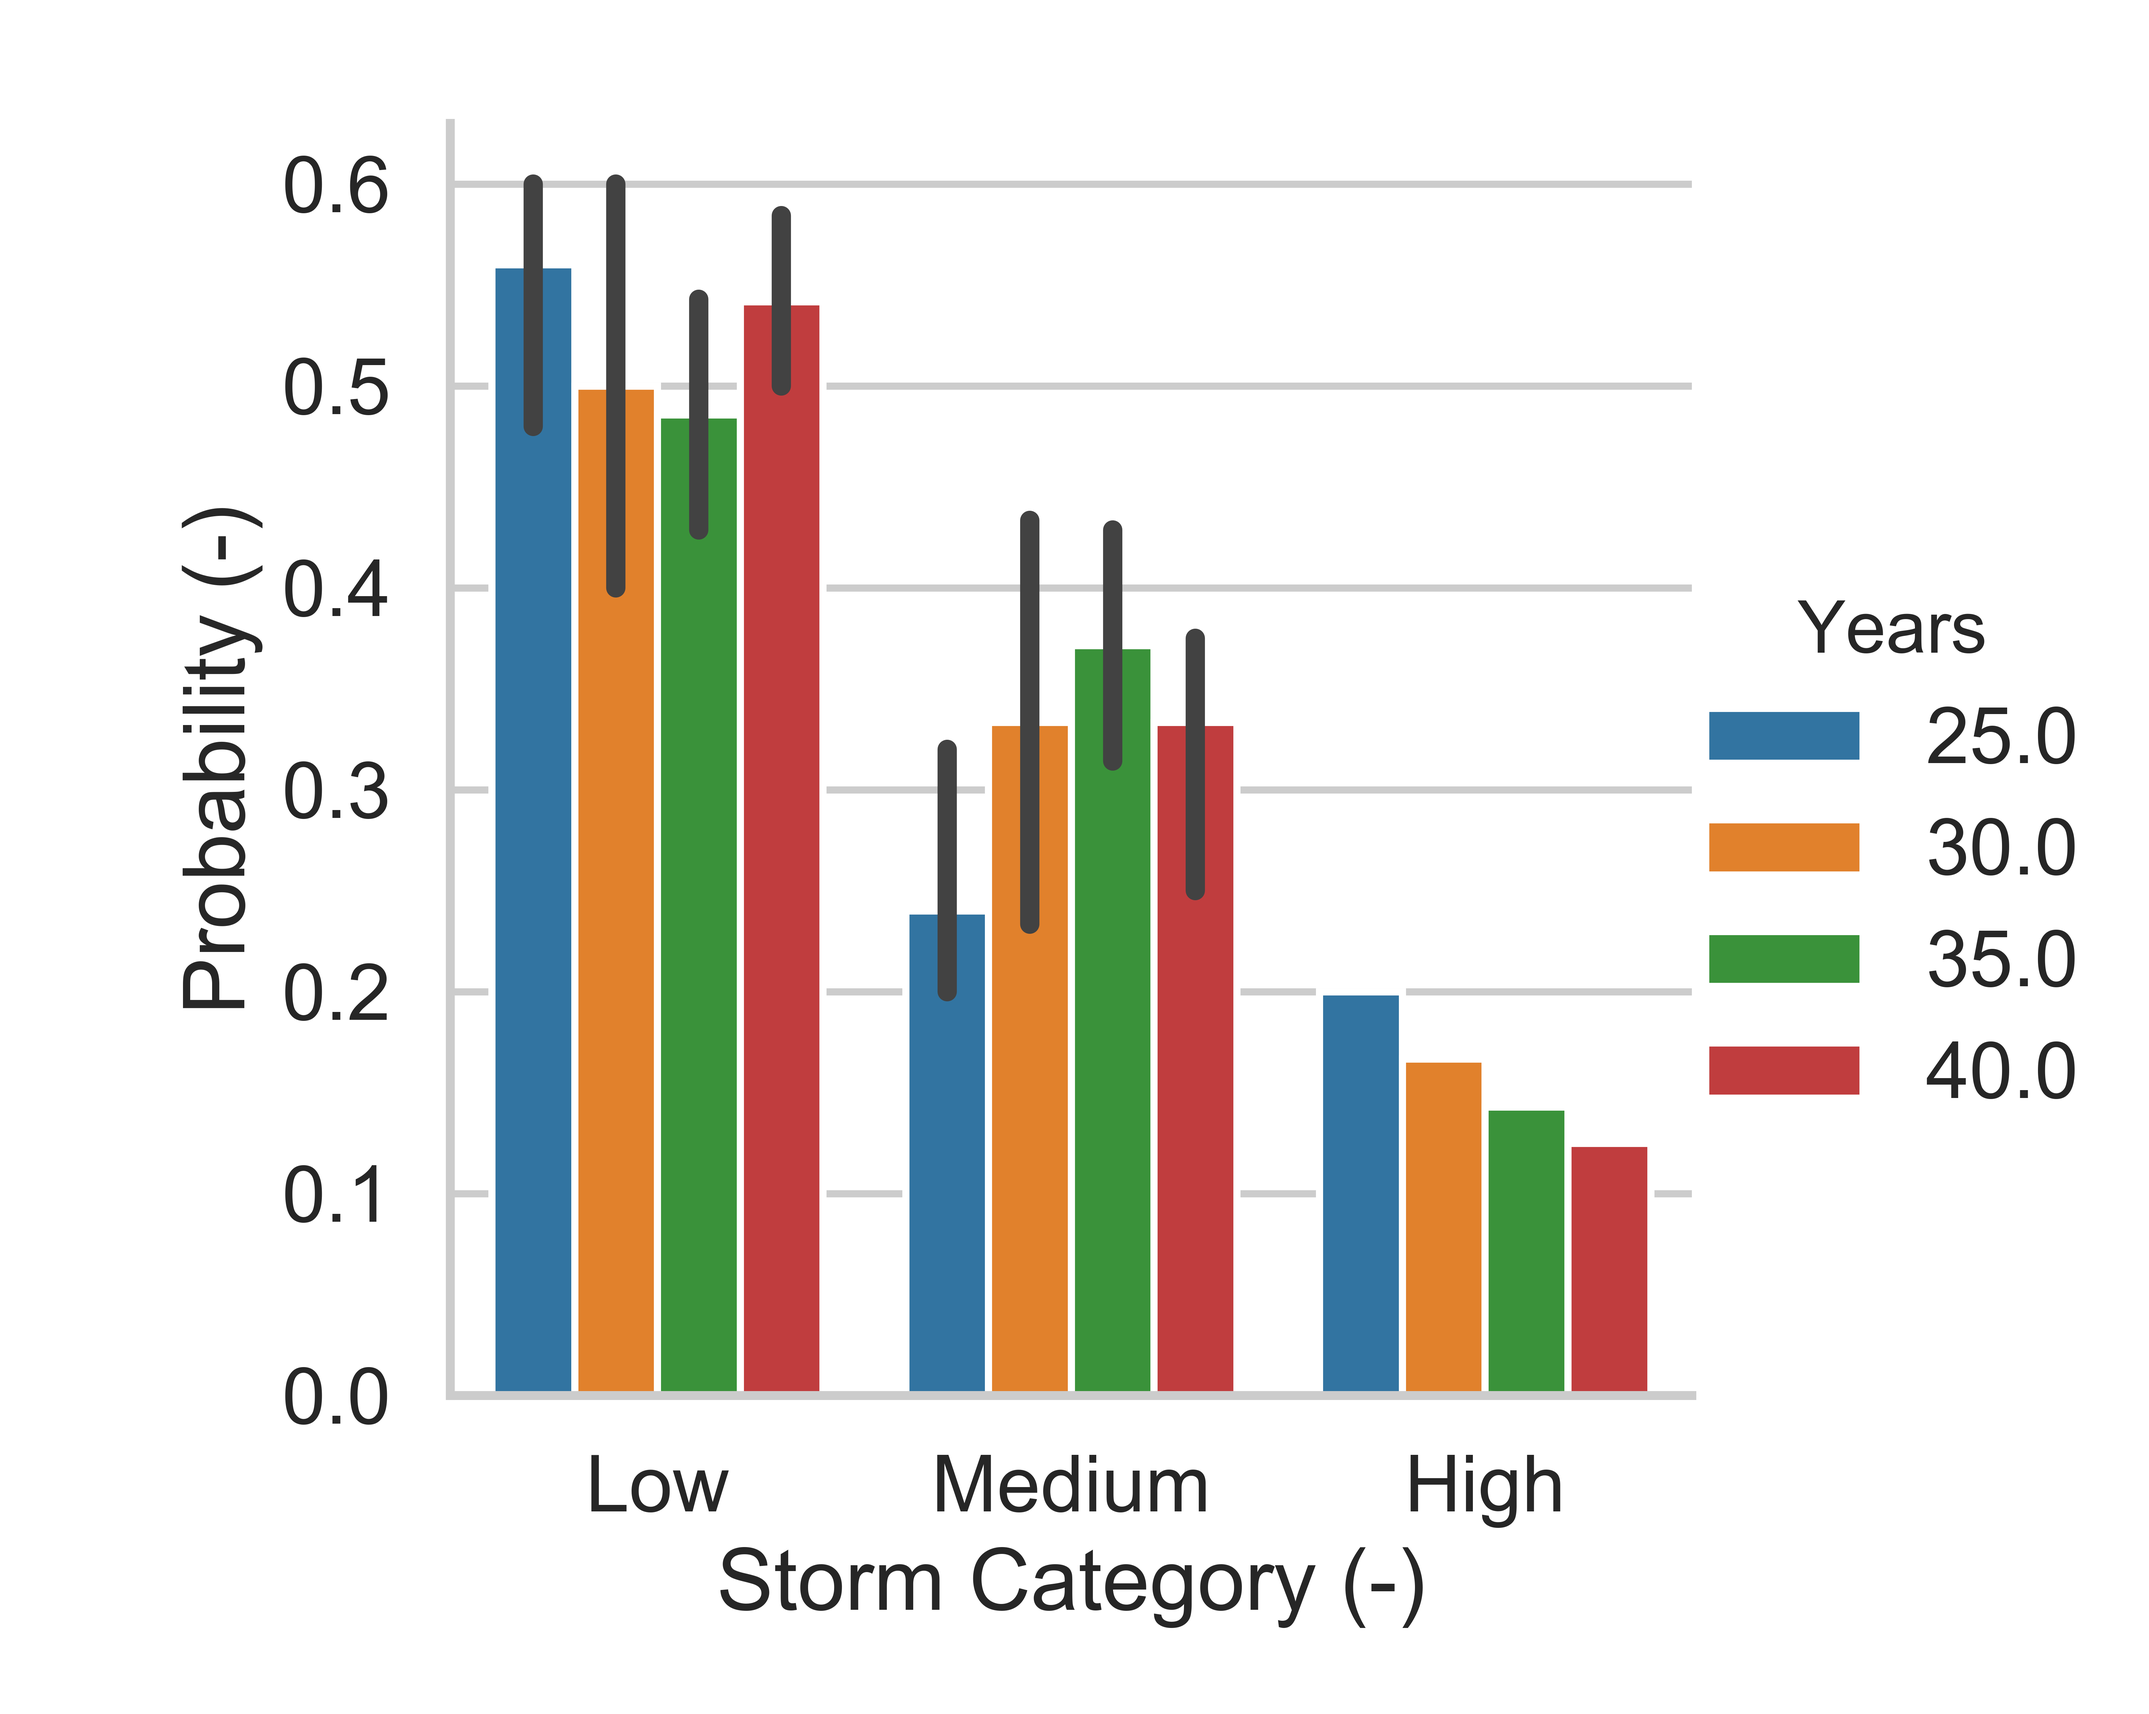
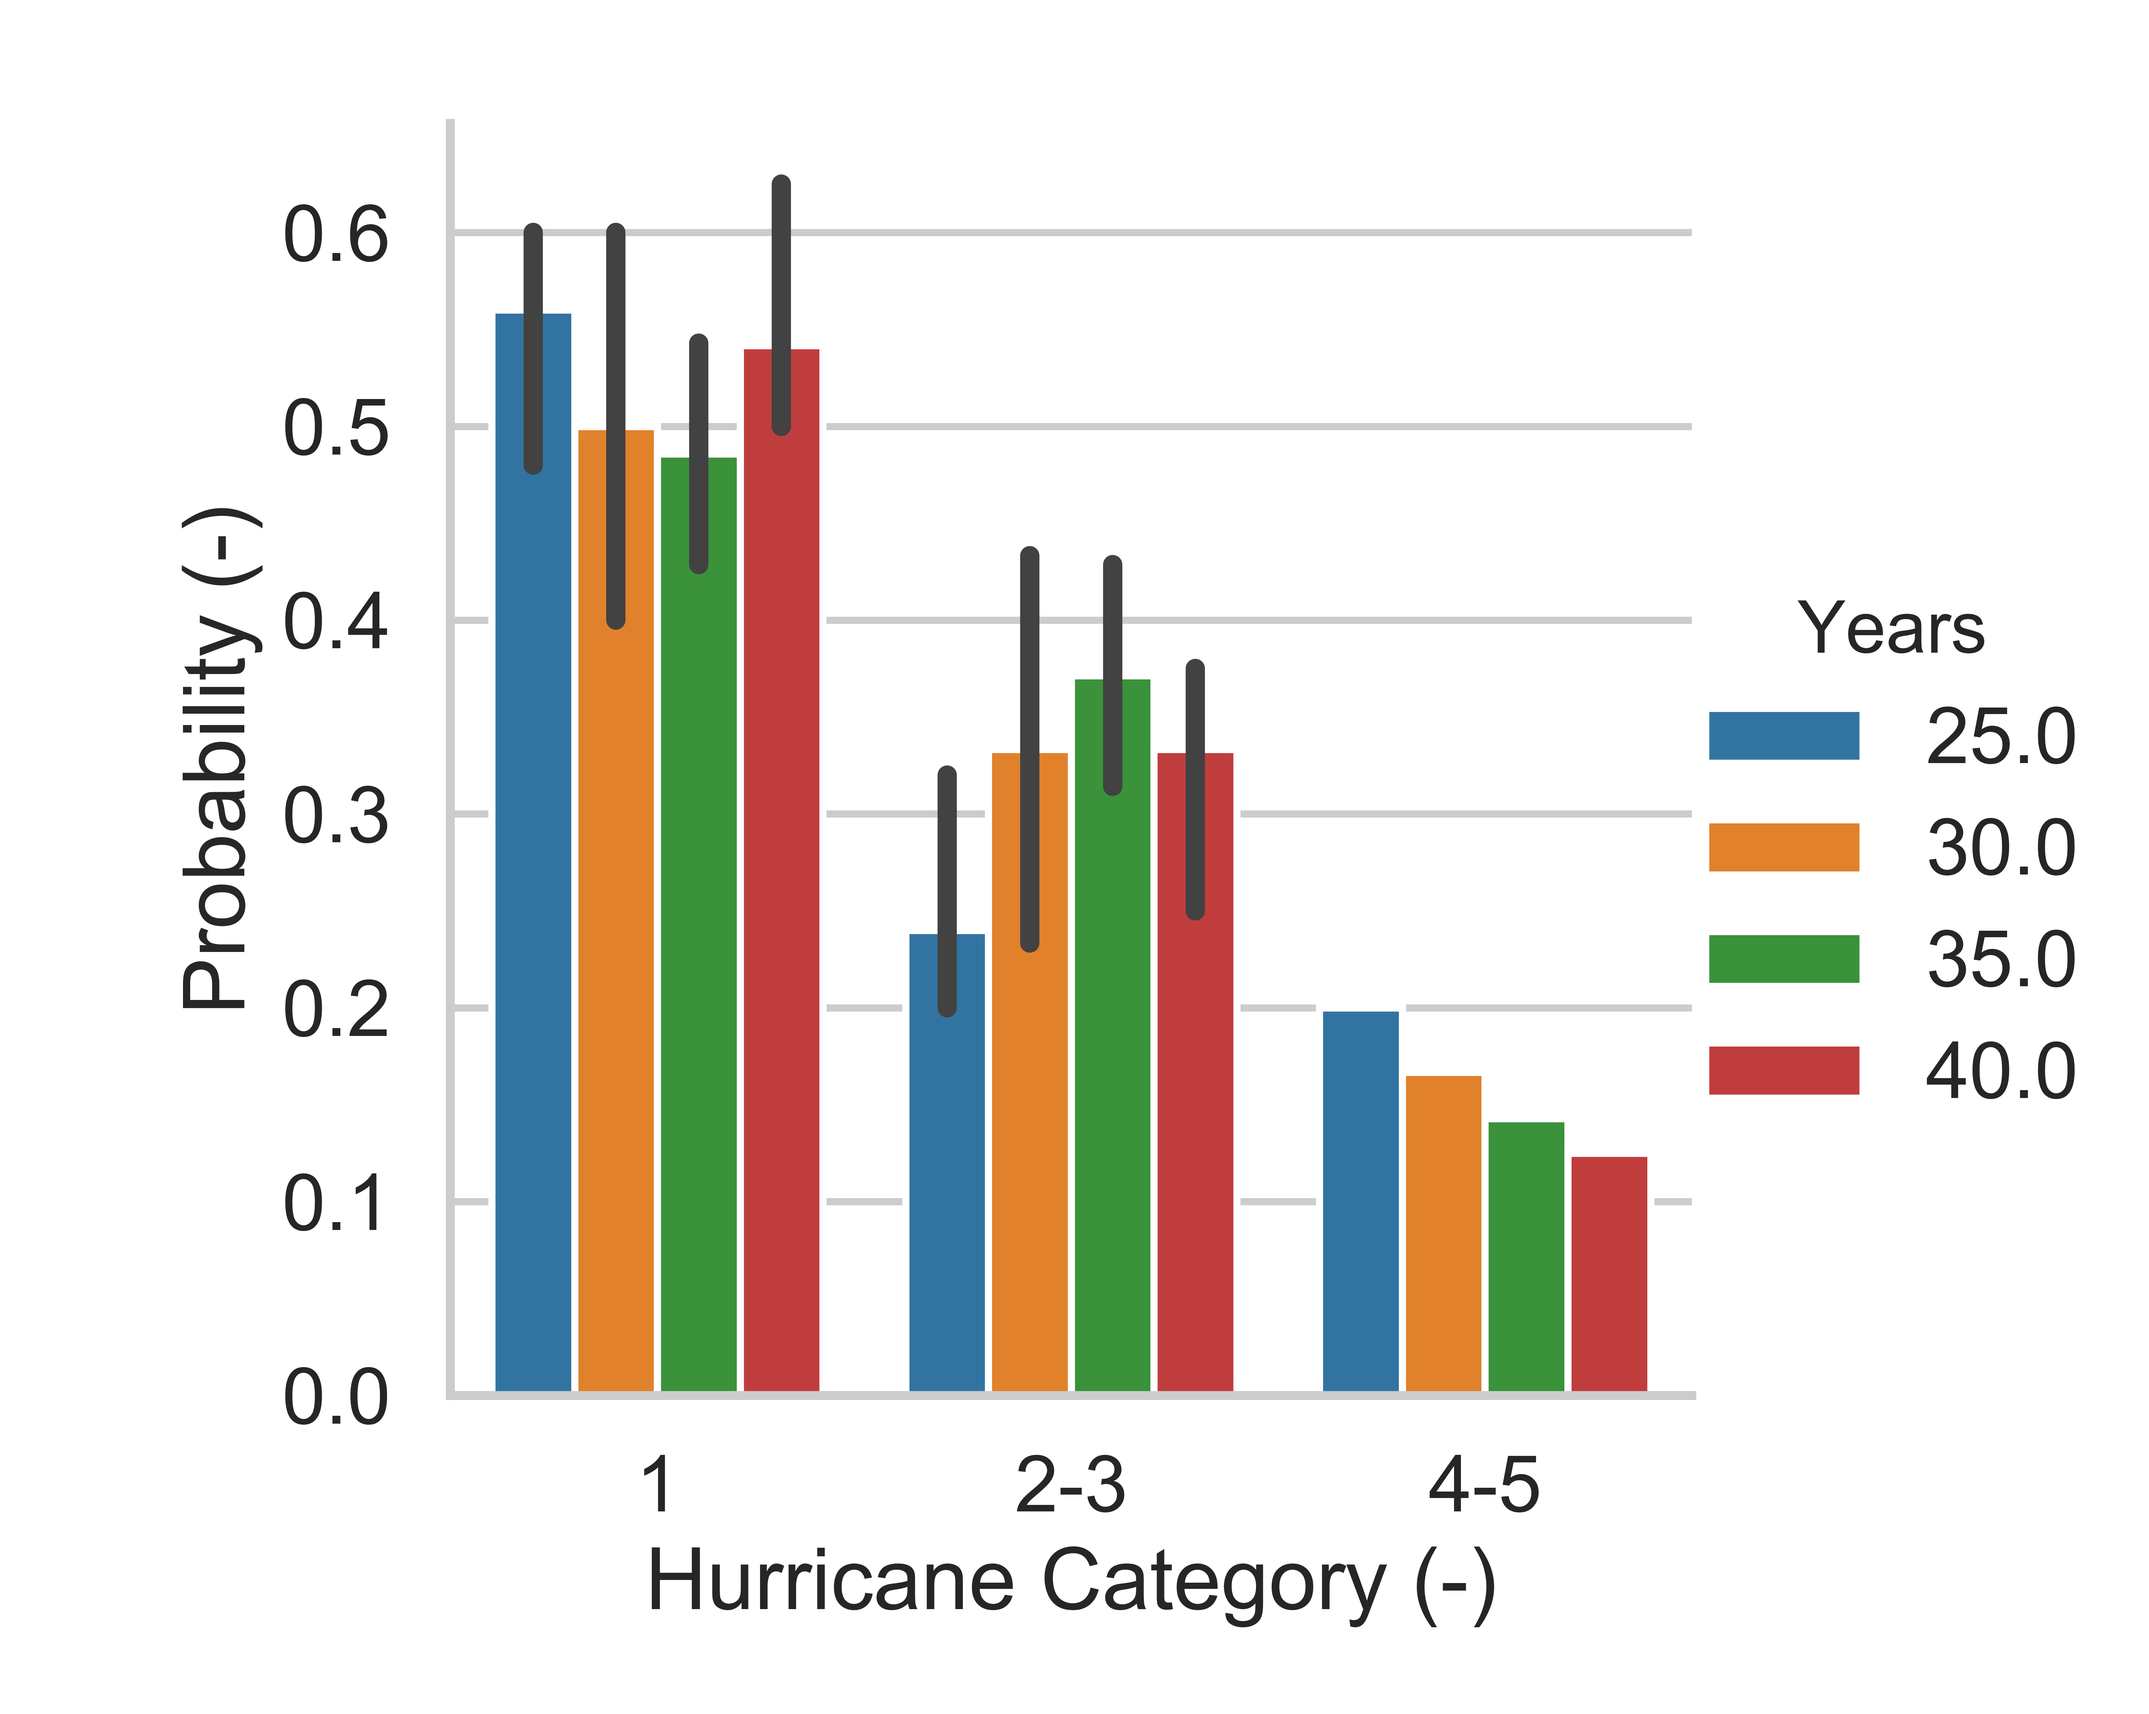
updated plot labels

diff --git a/examples/puerto_rico_stoch/stochastics_analyze.py b/examples/puerto_rico_stoch/stochastics_analyze.py
@@ -153,6 +153,12 @@ def analyze_results(metric, folder_db, folder_results, run_name, dbs, all_dbs, d
     # For activity results, change from temoa names to a more standard naming convention
     if metric == 'activity_by_fuel' or metric == 'activity_by_tech' or metric == 'capacity_by_fuel' or metric == 'capacity_by_tech':
         if metric == 'activity_by_fuel' or metric == 'capacity_by_fuel':
+            # other_renew = "Other renew"
+            # petrol = "Petroleum"
+            # type_shift = {"BIO": other_renew, "COAL_TAXED": "Coal", "DSL_TAXED": petrol, "ELC_CENTRAL": "Battery",
+            #               "ELC_DIST": "Battery", "HYDRO": other_renew, "MSW_LF_TAXED": other_renew,
+            #               "NATGAS_TAXED": "Natural gas", "OIL_TAXED": petrol, "SOLAR": "Solar", "WIND": "Wind"}
+
             type_shift = {"BIO": "Biomass", "COAL_TAXED": "Coal", "DSL_TAXED": "Diesel", "ELC_CENTRAL": "Battery",
                           "ELC_DIST": "Battery", "HYDRO": "Hydro", "MSW_LF_TAXED": "Landfill Gas",
                           "NATGAS_TAXED": "Natural Gas", "OIL_TAXED": "Oil", "SOLAR": "Solar", "WIND": "Wind"}
@@ -294,6 +300,8 @@ if __name__ == '__main__':
 
         metrics = ['costs_yearly', 'emissions_yearly', 'activity_by_fuel', 'activity_by_tech', 'capacity_by_fuel',
                    'capacity_by_tech']
+
+        metrics = [ 'activity_by_fuel']
 
         num_cores = multiprocessing.cpu_count() - 1  # Save one core for other processes
 

diff --git a/examples/puerto_rico_stoch/hurricane_backcasting/hurricaneBackcasting_categorized.py b/examples/puerto_rico_stoch/hurricane_backcasting/hurricaneBackcasting_categorized.py
@@ -84,9 +84,17 @@ custom_palette = [(0.380, 0.380, 0.380), (0.957, 0.451, 0.125), (.047, 0.149, 0.
                   (0.847, 0.000, 0.067)]  # Custom palette
 sns.set_style('whitegrid')
 sns.set_context('talk')
+
+
+
 probs2 = pd.melt(probs, id_vars=["Years"], var_name="Category", value_vars=["Low", "Medium", "High"])
+
+rename = {'Low': '1', 'Medium': '2-3', 'High': '4-5'}
+for key in rename.keys():
+    ind = probs2.loc[:, "Category"] == key
+    probs2.loc[ind, "Category"] = rename[key]
 ax = sns.catplot(x="Category", y="value", hue="Years", kind="bar", data=probs2)
-ax.set_xlabels('Storm Category (-)')
+ax.set_xlabels('Hurricane Category (-)')
 ax.set_ylabels('Probability (-)')
 plt.savefig("Hurricane_Probabilities_categorized.png", dpi=1000)
 
@@ -103,10 +111,14 @@ for year in years:
     slice = df.loc[(df.Year > start_year)]
     slice["Years"] = year
     comb_data = comb_data.append(slice)
+# Rename for plot
+for key in rename.keys():
+    ind = comb_data.loc[:, "Category"] == key
+    comb_data.loc[ind, "Category"] = rename[key]
 
 ax = sns.catplot(x="Category", y="MaxWind_mph", hue="Years", kind="bar", data=comb_data,
-                 order=["Low", "Medium", "High"])
-ax.set_xlabels('Storm Category (-)')
+                 order=["1", "2-3", "4-5"])
+ax.set_xlabels('Hurricane Category (-)')
 ax.set_ylabels('Maximum Windspeed (mph)')
 plt.savefig("Hurricane_Windspeeds_Comparison_categorized.png", dpi=1000)
 
